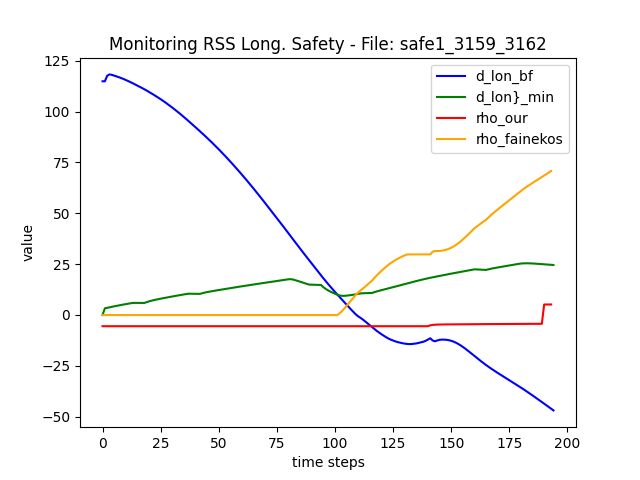
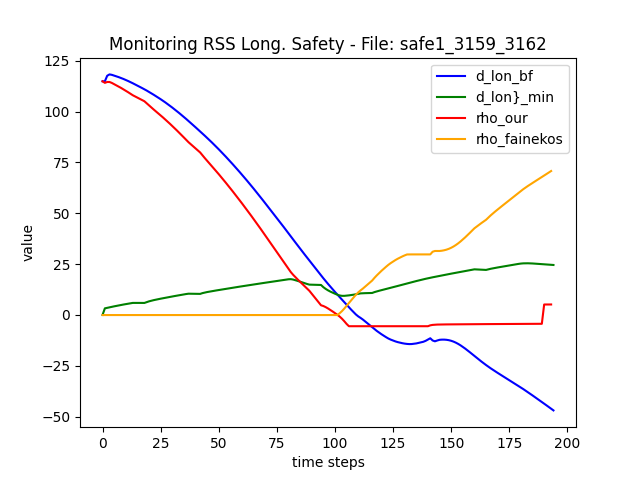
upload monitoring of rss1 for demo

diff --git a/stl_rules/rss_lon_safety.py b/stl_rules/rss_lon_safety.py
@@ -72,7 +72,7 @@ class RSSLongitudinalSafetyRule(STLRule):
         P_lon_2 = f"(not(not({S_lon_bf}) until[{self._p['rho_dt']}:{self._p['max_steps']}] (not({S_lon_bf} or {psi2}))))"
         P_lon = f"({P_lon_1} and {P_lon_2})"
         # resulting specification
-        phi_lon_resp = f"always ((not {S_lon_bf}) -> (next {P_lon}))"
+        phi_lon_resp = f"((not {S_lon_bf}) -> (next {P_lon}))"
         return phi_lon_resp
 
     def _compute_dynamic_safe_long_dist(self, data: Dict[str, np.ndarray]) -> np.ndarray:

diff --git a/examples/example_longitudinal_safety.py b/examples/example_longitudinal_safety.py
@@ -11,7 +11,7 @@ with open("data/rss_params.yaml", 'r') as stream:
     rss_params = yaml.safe_load(stream)
 # trace = pd.read_csv("data/example1.csv")
 datadir = pathlib.Path("data")
-filename = "safe1_3159_3162"
+filename = "safe1_3159_3161"
 trace = pd.read_csv(datadir / f"{filename}.csv")
 
 # create rss rule
